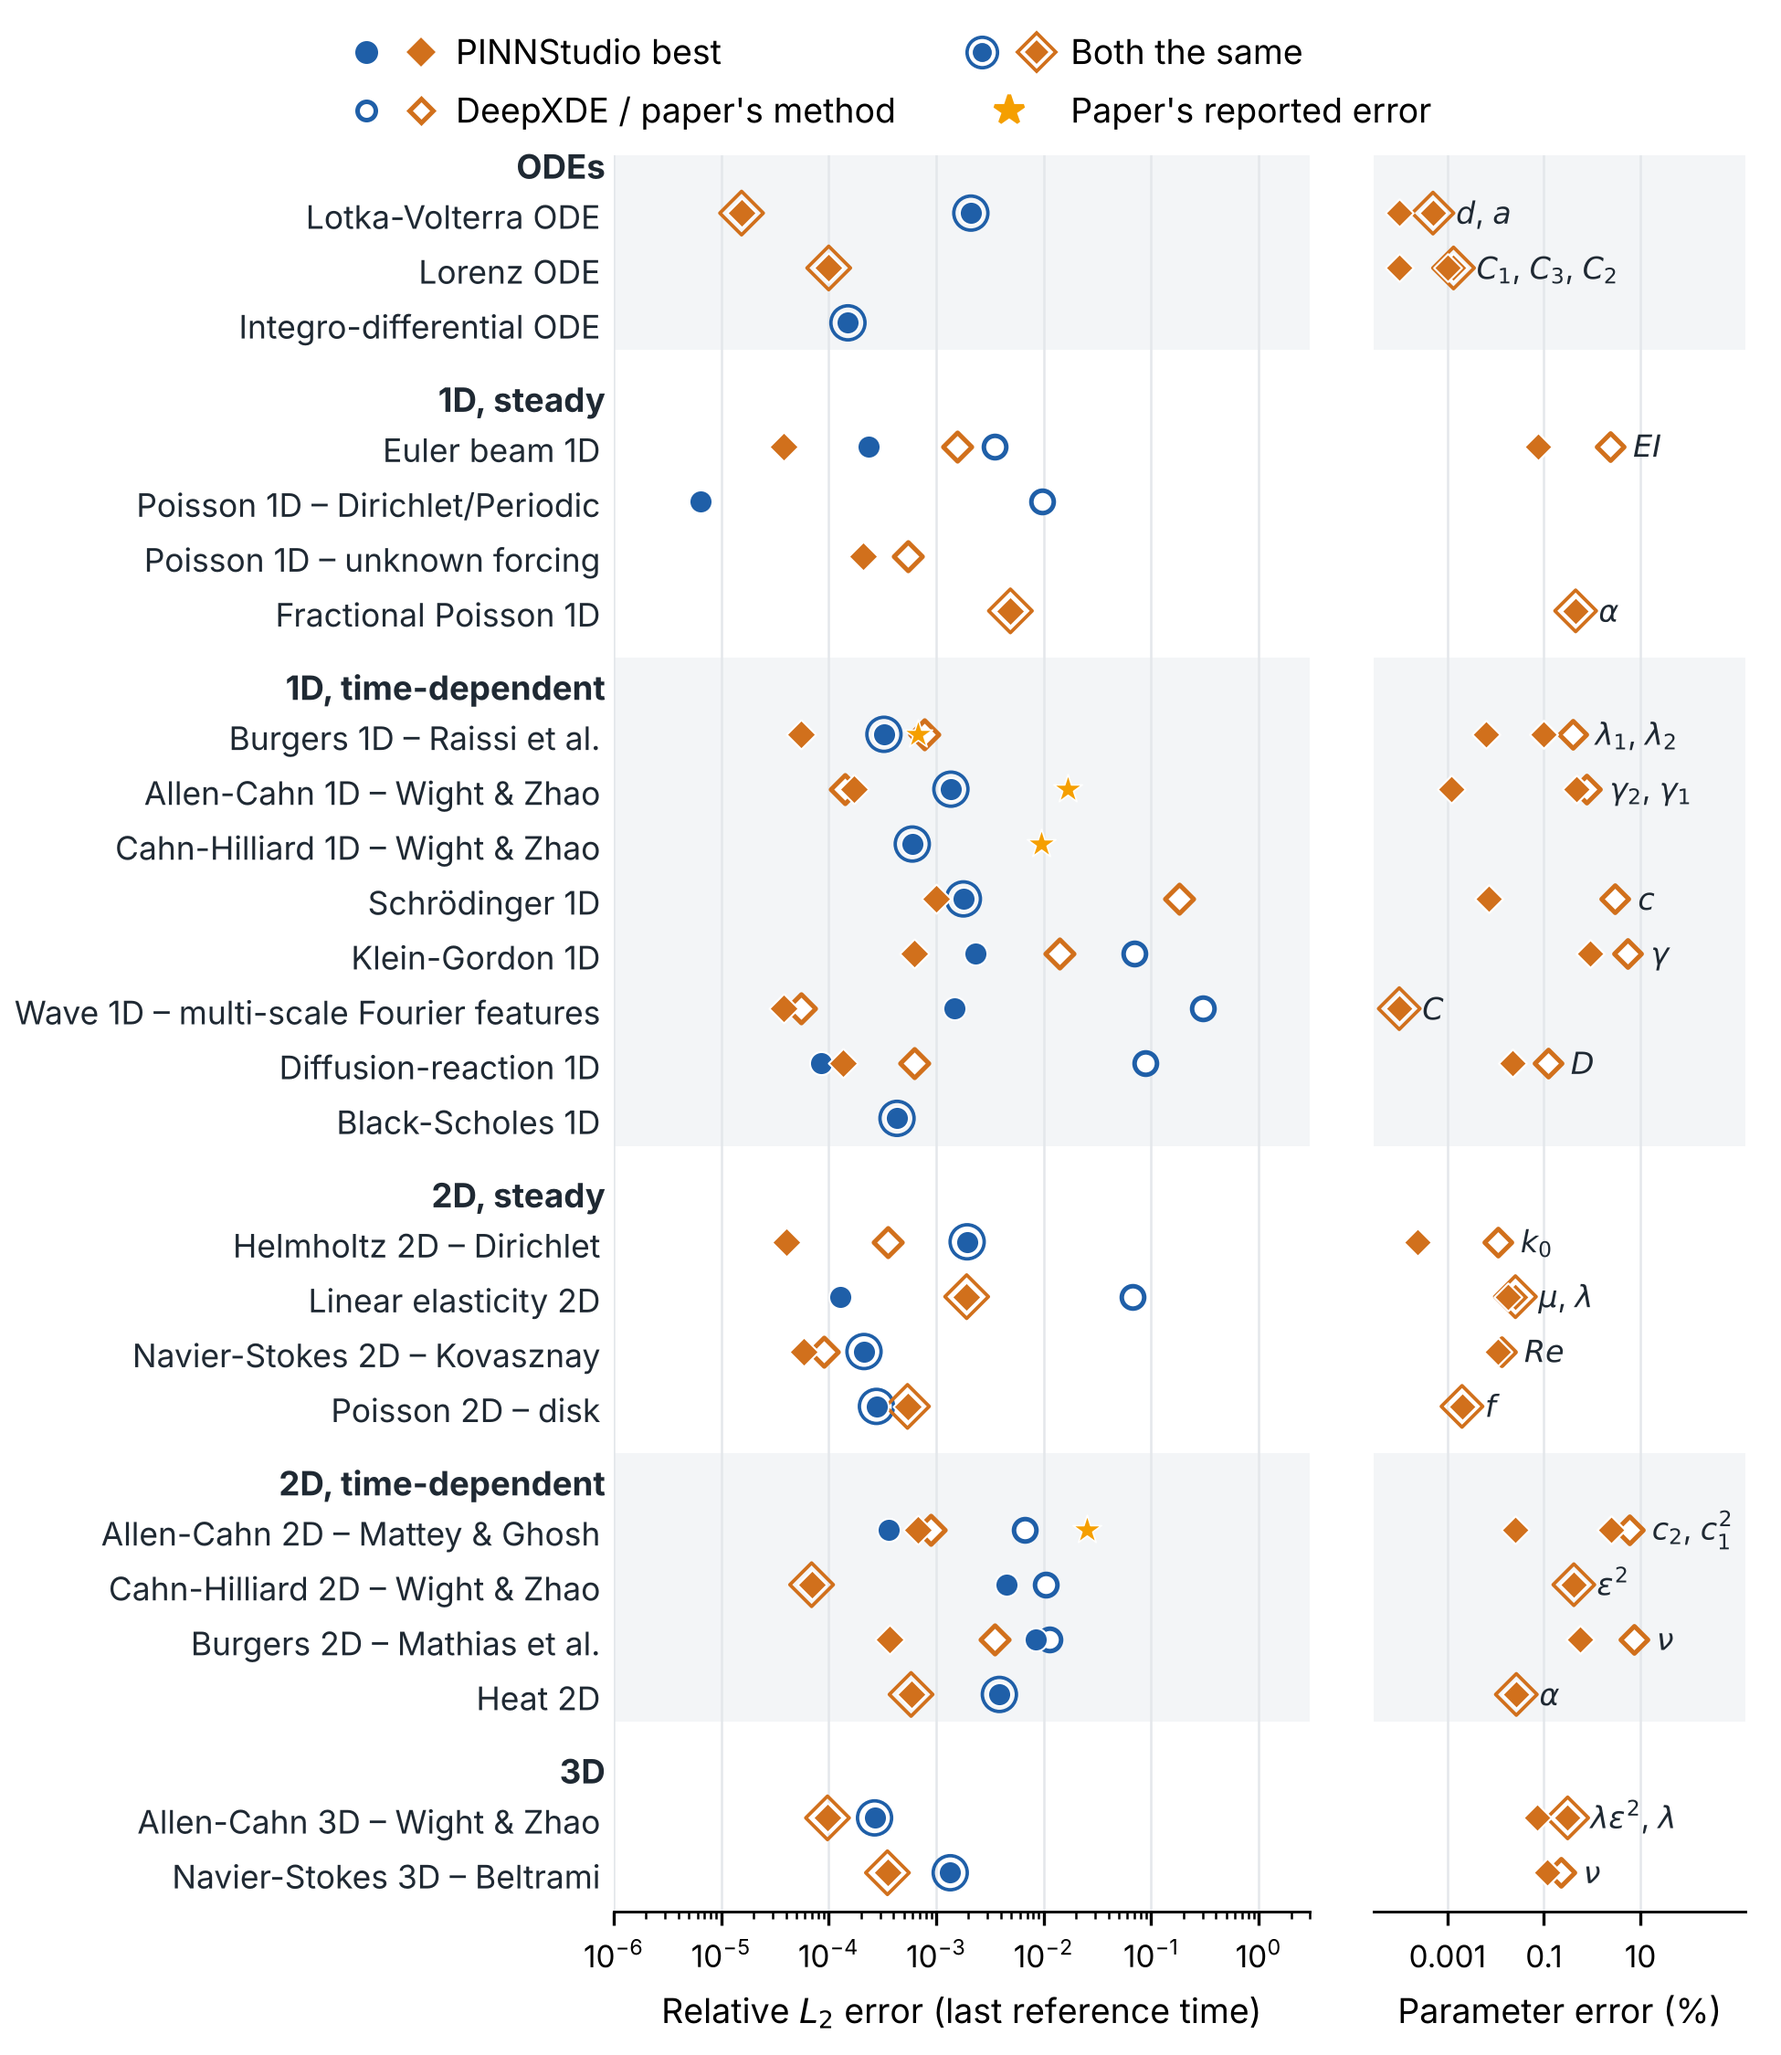
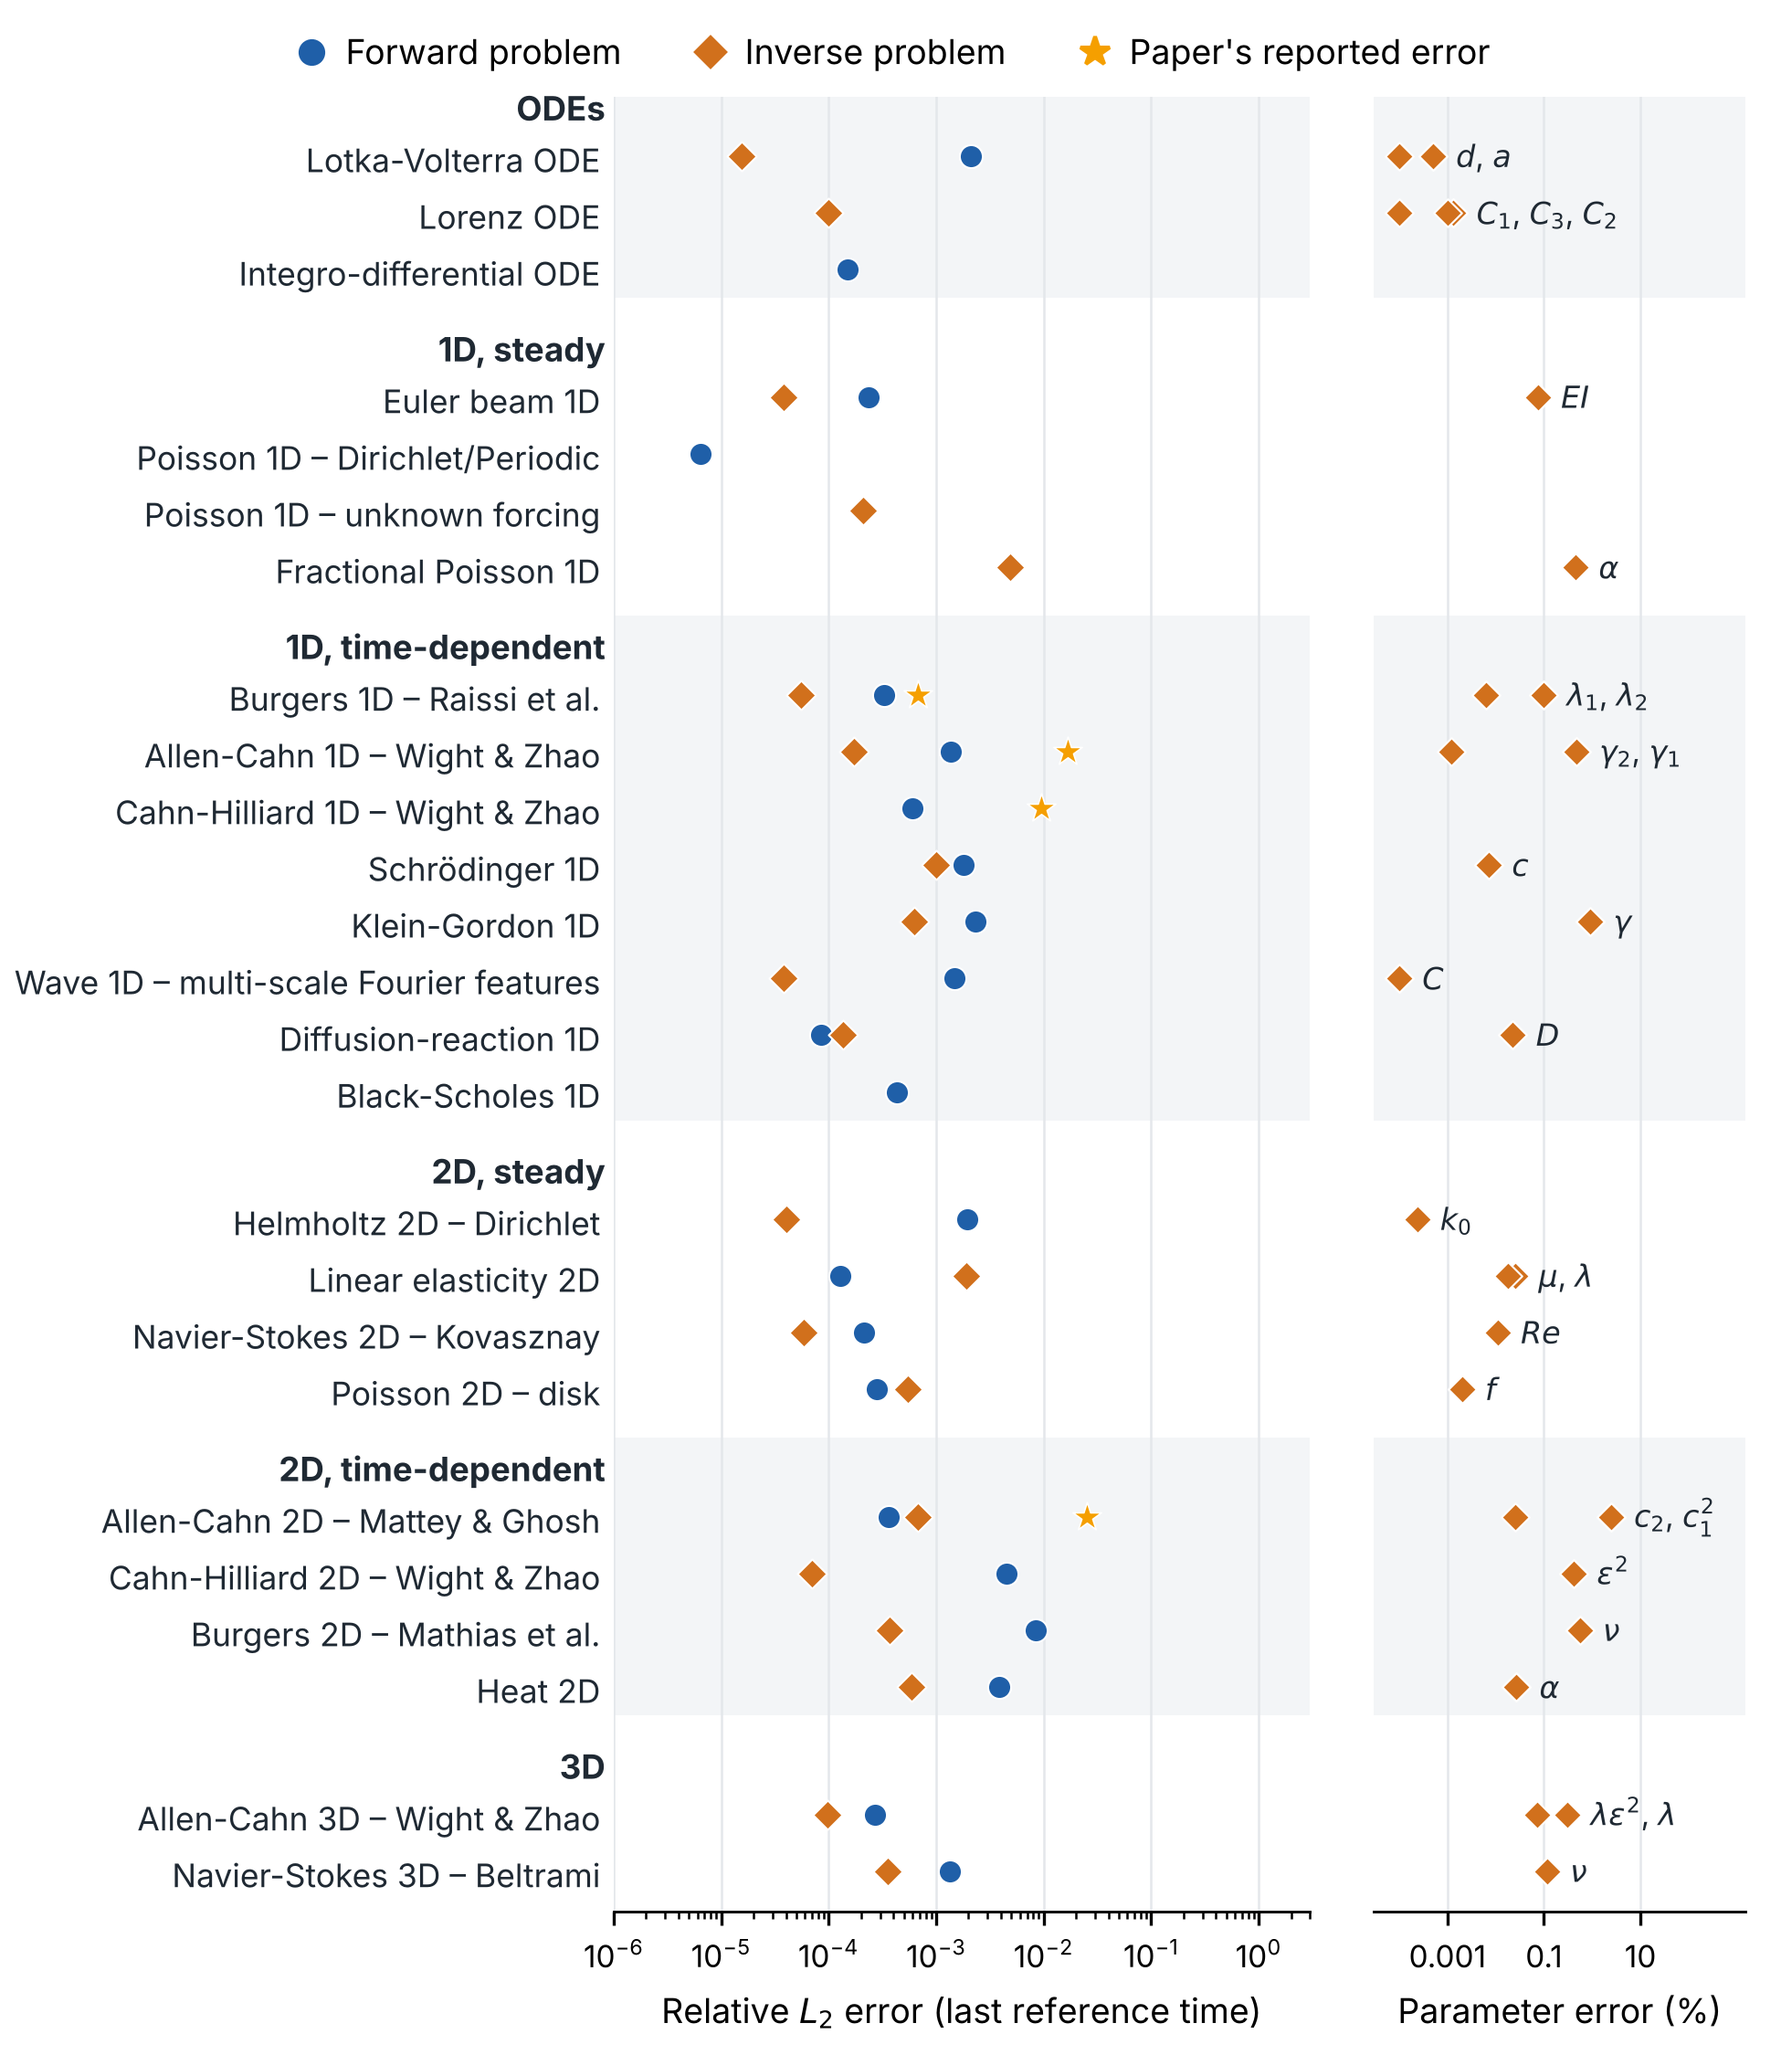
Paper figure: PINNStudio's best result only
The paper figure shows one marker per problem and mode (and the papers'
reported errors), without the reference runs; the comparison stays in the
full figure and the tables. Caption and toggle text updated.

diff --git a/tools/make_benchmarks_readme.py b/tools/make_benchmarks_readme.py
@@ -481,6 +481,11 @@ def figure(recs, path, stars=False, paper=False):
                 fontsize=F["head"], fontweight="bold", color=mtp.C_TEXT)
 
     def pair(axx, ref, best, y, marker, color, ms):
+        if paper:       # the paper figure: PINNStudio's best only
+            ref = None
+            if best:
+                axx.scatter(best, y, s=ms, marker=marker, color=color, edgecolor="white", lw=0.5, zorder=3)
+            return
         """Open marker (the mode's colour) = DeepXDE's settings / the paper's method; filled = PINNStudio's
         best. Where the two are the same (or nothing needed tuning) the open one is a ring around the filled."""
         if best and (not ref or abs(ref - best) / max(ref, best) <= 0.05):
@@ -502,7 +507,7 @@ def figure(recs, path, stars=False, paper=False):
             o = max(100 * r["p_ref"], P_FLOOR) if r["p_ref"] is not None else None
             # the worst parameter carries the comparison with the reference (open diamond or ring)
             pair(bx, o, right, y, "D", mtp.C_INVERSE, 20 * F["ms"])
-            right = max(right, o or 0)
+            right = max(right, 0 if paper else (o or 0))
             for _, e_ in es:
                 bx.scatter(e_, y, s=20 * F["ms"], marker="D", color=mtp.C_INVERSE, edgecolor="white", lw=0.5, zorder=3)
             bx.text(right * (3.0 if paper else 2.2), y, ", ".join(_math_sym(s) for s, _ in sorted(es, key=lambda q: q[1])), va="center",
@@ -539,6 +544,9 @@ def figure(recs, path, stars=False, paper=False):
     h[2] = (_Over((h[2][0], mk("o", 0, 4, color=mtp.C_FORWARD))), _Over((h[2][1], mk("D", 0, 3.5, color=mtp.C_INVERSE))))
     if stars:
         h.append(mk("*", 0, 8, color="#f59f00"))
+    if paper:
+        h = [mk("o", 0, 6, color=mtp.C_FORWARD), mk("D", 0, 5.4, color=mtp.C_INVERSE)] + h[3:]
+        lab = ["Forward problem", "Inverse problem", lab[3]]
     lab = lab[:len(h)]
     hm = {tuple: HandlerTuple(ndivide=None, pad=0.6), _Over: HandlerTuple(ndivide=1)}
     os.makedirs(os.path.dirname(path), exist_ok=True)
@@ -551,8 +559,8 @@ def figure(recs, path, stars=False, paper=False):
         plt.close(fig)
         return
     # exact printed size: margins from the measured labels, no bbox cropping
-    leg = fig.legend(h, lab, handler_map=hm, loc="upper center", ncol=2, frameon=False, fontsize=F["legend"],
-                     handlelength=2.6, handletextpad=0.5, columnspacing=2.0, bbox_to_anchor=(0.5, 1.0))
+    leg = fig.legend(h, lab, handler_map=hm, loc="upper center", ncol=len(h), frameon=False, fontsize=F["legend"],
+                     handlelength=1.2, handletextpad=0.4, columnspacing=2.0, bbox_to_anchor=(0.5, 1.0))
     fig.subplots_adjust(left=0.3, right=0.98, top=0.95, bottom=0.07)
     rd = fig.canvas.get_renderer()
     pad = 0.04 * fig.dpi
@@ -1121,19 +1129,18 @@ def page(recs):
           "a forward and an inverse problem, so one row shows both modes. A few are forward only (the "
           "integro-differential ODE, Poisson 1D, Cahn-Hilliard 1D, Black-Scholes), and Lorenz, the unknown "
           "forcing field and the fractional order α are inverse problems only. The set mixes DeepXDE's examples "
-          "with templates taken from papers (Raissi et al.; Wight & Zhao; Mattey & Ghosh; Mathias et al.). For "
-          "those, the open marker is the paper's method run in PINNStudio, and the ⭐ is the error the paper "
-          "itself reports, where it gives one (Burgers 1D, Allen-Cahn 1D, Cahn-Hilliard 1D, Allen-Cahn 2D of "
+          "with templates taken from papers (Raissi et al.; Wight & Zhao; Mattey & Ghosh; Mathias et al.). The "
+          "figure shows only PINNStudio's best result for each problem, to keep it easy to read; the comparison "
+          "with DeepXDE's settings and the papers' methods is in the full figure above and the tables below. For "
+          "the paper templates, the ⭐ is the error the paper itself reports, where it gives one (Burgers 1D, Allen-Cahn 1D, Cahn-Hilliard 1D, Allen-Cahn 2D of "
           "Mattey & Ghosh). Note that the papers report one error over all times, while the x-axis is the error "
           "at the last reference time, so the ⭐ is a guide rather than an exact like-for-like point; the "
           "all-times errors are in the tables below.\n\n"
           "**For Word.** The figure is drawn at its printed size, 6.5 × 7.5 in (the text width of a Word page "
           "with 1 in margins), with 8.5–9 pt text, so insert it at 100% and it leaves about 1.5 in for the caption "
           "on the same page. The PDF keeps it sharp at any zoom. A caption to start from:\n\n"
-          "> *Relative L₂ error of PINNStudio on 25 representative problems, from ODEs to 3D PDEs. Filled markers "
-          "are PINNStudio's best settings (circles: forward problems, diamonds: inverse problems); open markers "
-          "are DeepXDE's settings or, for templates taken from a paper, that paper's method run in PINNStudio, and "
-          "a ring around a filled marker means the two are the same. "
+          "> *Relative L₂ error of PINNStudio on 25 representative problems, from ODEs to 3D PDEs, with its best "
+          "settings for each problem (circles: forward problems, diamonds: inverse problems). "
           "Stars mark the error reported in the original paper. Right: the relative error of each identified "
           "parameter, labelled with its symbol.*\n\n"
           "*The list: [`paper_figure_examples.txt`](paper_figure_examples.txt) (one name per line; change a line "

diff --git a/benchmarks/README.md b/benchmarks/README.md
@@ -90,11 +90,11 @@ The sweep was run on the 39 examples with the largest errors. The others were al
 <details>
 <summary>📄 <em>Figure for the paper — 25 examples</em></summary>
 
-**Why these examples.** The full figure has 63 examples, which is too many for one page in a paper, so this one keeps one example of each kind of problem. They go from ODEs to 1D, 2D and 3D, and in each dimension from steady to time-dependent problems. Together they cover the main equation types: elliptic (Poisson, Helmholtz, linear elasticity), parabolic (heat, diffusion-reaction, Black-Scholes), hyperbolic and dispersive (wave, Klein-Gordon, Schrödinger), nonlinear flow (Burgers, Navier-Stokes in 2D and 3D), stiff phase-field equations (Allen-Cahn, and the fourth-order Cahn-Hilliard), and the less common fractional and integro-differential operators. Most of them (18 of the 25) have both a forward and an inverse problem, so one row shows both modes. A few are forward only (the integro-differential ODE, Poisson 1D, Cahn-Hilliard 1D, Black-Scholes), and Lorenz, the unknown forcing field and the fractional order α are inverse problems only. The set mixes DeepXDE's examples with templates taken from papers (Raissi et al.; Wight & Zhao; Mattey & Ghosh; Mathias et al.). For those, the open marker is the paper's method run in PINNStudio, and the ⭐ is the error the paper itself reports, where it gives one (Burgers 1D, Allen-Cahn 1D, Cahn-Hilliard 1D, Allen-Cahn 2D of Mattey & Ghosh). Note that the papers report one error over all times, while the x-axis is the error at the last reference time, so the ⭐ is a guide rather than an exact like-for-like point; the all-times errors are in the tables below.
+**Why these examples.** The full figure has 63 examples, which is too many for one page in a paper, so this one keeps one example of each kind of problem. They go from ODEs to 1D, 2D and 3D, and in each dimension from steady to time-dependent problems. Together they cover the main equation types: elliptic (Poisson, Helmholtz, linear elasticity), parabolic (heat, diffusion-reaction, Black-Scholes), hyperbolic and dispersive (wave, Klein-Gordon, Schrödinger), nonlinear flow (Burgers, Navier-Stokes in 2D and 3D), stiff phase-field equations (Allen-Cahn, and the fourth-order Cahn-Hilliard), and the less common fractional and integro-differential operators. Most of them (18 of the 25) have both a forward and an inverse problem, so one row shows both modes. A few are forward only (the integro-differential ODE, Poisson 1D, Cahn-Hilliard 1D, Black-Scholes), and Lorenz, the unknown forcing field and the fractional order α are inverse problems only. The set mixes DeepXDE's examples with templates taken from papers (Raissi et al.; Wight & Zhao; Mattey & Ghosh; Mathias et al.). The figure shows only PINNStudio's best result for each problem, to keep it easy to read; the comparison with DeepXDE's settings and the papers' methods is in the full figure above and the tables below. For the paper templates, the ⭐ is the error the paper itself reports, where it gives one (Burgers 1D, Allen-Cahn 1D, Cahn-Hilliard 1D, Allen-Cahn 2D of Mattey & Ghosh). Note that the papers report one error over all times, while the x-axis is the error at the last reference time, so the ⭐ is a guide rather than an exact like-for-like point; the all-times errors are in the tables below.
 
 **For Word.** The figure is drawn at its printed size, 6.5 × 7.5 in (the text width of a Word page with 1 in margins), with 8.5–9 pt text, so insert it at 100% and it leaves about 1.5 in for the caption on the same page. The PDF keeps it sharp at any zoom. A caption to start from:
 
-> *Relative L₂ error of PINNStudio on 25 representative problems, from ODEs to 3D PDEs. Filled markers are PINNStudio's best settings (circles: forward problems, diamonds: inverse problems); open markers are DeepXDE's settings or, for templates taken from a paper, that paper's method run in PINNStudio, and a ring around a filled marker means the two are the same. Stars mark the error reported in the original paper. Right: the relative error of each identified parameter, labelled with its symbol.*
+> *Relative L₂ error of PINNStudio on 25 representative problems, from ODEs to 3D PDEs, with its best settings for each problem (circles: forward problems, diamonds: inverse problems). Stars mark the error reported in the original paper. Right: the relative error of each identified parameter, labelled with its symbol.*
 
 *The list: [`paper_figure_examples.txt`](paper_figure_examples.txt) (one name per line; change a line to swap an example). PDF: [`figures/paper_figure.pdf`](figures/paper_figure.pdf).*
 
